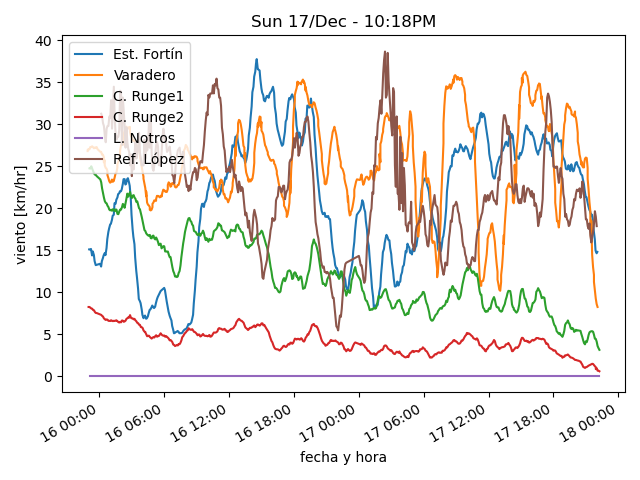
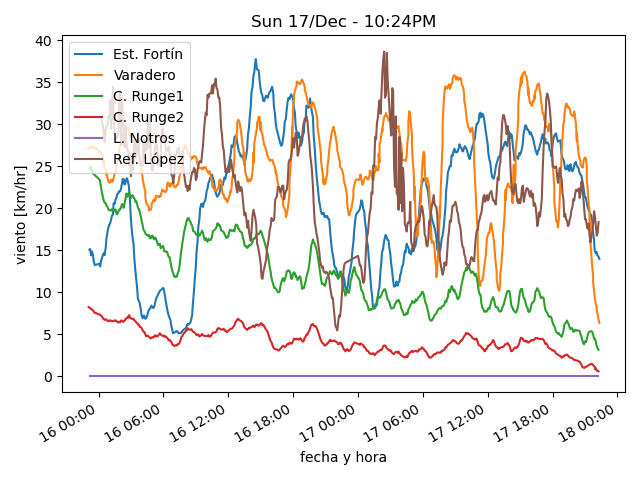
actualiza datos

diff --git a/estaciones/estacion1.html b/estaciones/estacion1.html
@@ -18,17 +18,17 @@
     </tr>
     <tr>
      <td class="stats_data">
-      10:03PM
+      10:19PM
      </td>
     </tr>
     <tr>
      <td class="stats_data">
-      6.1
+      6.0
      </td>
     </tr>
     <tr>
      <td class="stats_data">
-      -0.6
+      -0.7
      </td>
     </tr>
     <tr>
@@ -38,12 +38,12 @@
     </tr>
     <tr>
      <td class="stats_data">
-      1021.33
+      1021.67
      </td>
     </tr>
     <tr>
      <td class="stats_data">
-      12.8/18.5 WNW
+      11.7/15.6 WNW
      </td>
     </tr>
     <tr>

diff --git a/estaciones/estacion6.html b/estaciones/estacion6.html
@@ -18,17 +18,17 @@
     </tr>
     <tr>
      <td class="stats_data">
-      10:00PM
+      10:15PM
      </td>
     </tr>
     <tr>
      <td class="stats_data">
-      0.6
+      0.5
      </td>
     </tr>
     <tr>
      <td class="stats_data">
-      -3.7
+      -3.8
      </td>
     </tr>
     <tr>
@@ -38,12 +38,12 @@
     </tr>
     <tr>
      <td class="stats_data">
-      1023.84
+      1023.87
      </td>
     </tr>
     <tr>
      <td class="stats_data">
-      3.2/6.4 SSW
+      16.1/29.0 S
      </td>
     </tr>
     <tr>

diff --git a/estaciones/estacion2.html b/estaciones/estacion2.html
@@ -18,7 +18,7 @@
     </tr>
     <tr>
      <td class="stats_data">
-      10:04PM
+      10:19PM
      </td>
     </tr>
     <tr>
@@ -28,22 +28,22 @@
     </tr>
     <tr>
      <td class="stats_data">
-      2.4
+      2.7
      </td>
     </tr>
     <tr>
      <td class="stats_data">
-      72.1
+      73.3
      </td>
     </tr>
     <tr>
      <td class="stats_data">
-      1016.22
+      1016.32
      </td>
     </tr>
     <tr>
      <td class="stats_data">
-      6.1/8.5 W
+      3.5/5.4 W
      </td>
     </tr>
     <tr>
